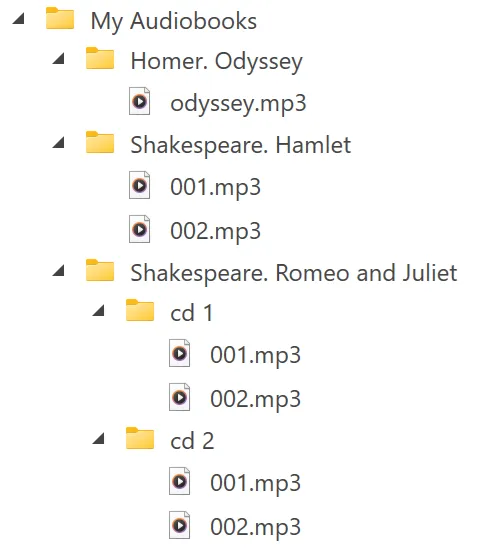
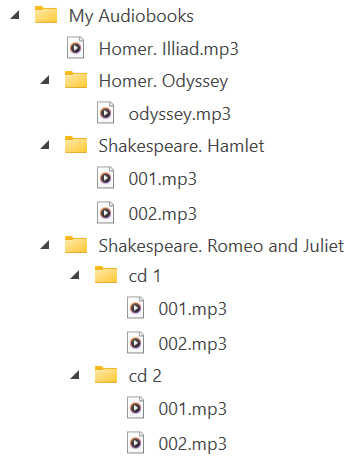
Add information about single-file audiobooks support.

diff --git a/audiobooks.html b/audiobooks.html
@@ -40,20 +40,22 @@ You can add and remove audiobooks folders when first launching the app or later 
 </p>
 
 <p>
-Each audiobook is placed in its own subfolder inside the main audiobooks folder, even if it is only a single MP3
-file.<br>
-When a book contains multiple files they are played in alphabetic order.<br>
+Homer lists top-level files and folders in the browse view.
+Audiobooks with multiple files should be placed in a folder, their files will be played in alphabetic order.<br>
 An audiobook folder may contain subfolders, they will be played in alphabetic order too. This is useful when
 a book comes on multiple CDs where file numbers repeat between CDs.
 </p>
 
 <img src="assets/img/audiobooks_folder.webp" width="320">
 
-<p>The image above shows structure for a folder "My Audiobooks" that contains three audiobooks.</p>
+<p>
+The image above shows structure for a folder "My Audiobooks" that contains four audiobooks.<br>
+If there are multiple audiobooks folders, their contents is merged into a single browse list.
+</p>
 
 <h4>Tips on naming</h4>
 <p>
-The application uses folder names to display audiobooks in the app and reads them when TTS is enabled.
+The application uses folder and file names to display audiobooks in the browse screen and reads them when TTS is enabled.
 Therefore it's important to use good names for a good user experience.
 </p>
 
@@ -111,7 +113,7 @@ Once configured this can be very convenient. There are however a few things to c
 </p>
 
 <ul>
-<li>the user needs an Internet connecitons, obviously,</li>
+<li>the user needs an Internet conneciton, obviously,</li>
 <li>audiobooks can take quite a bit of space on the shared drive,</li>
 <li>it may use a bit more battery for WiFi or mobile network to be enabled.</li>
 </ul>
